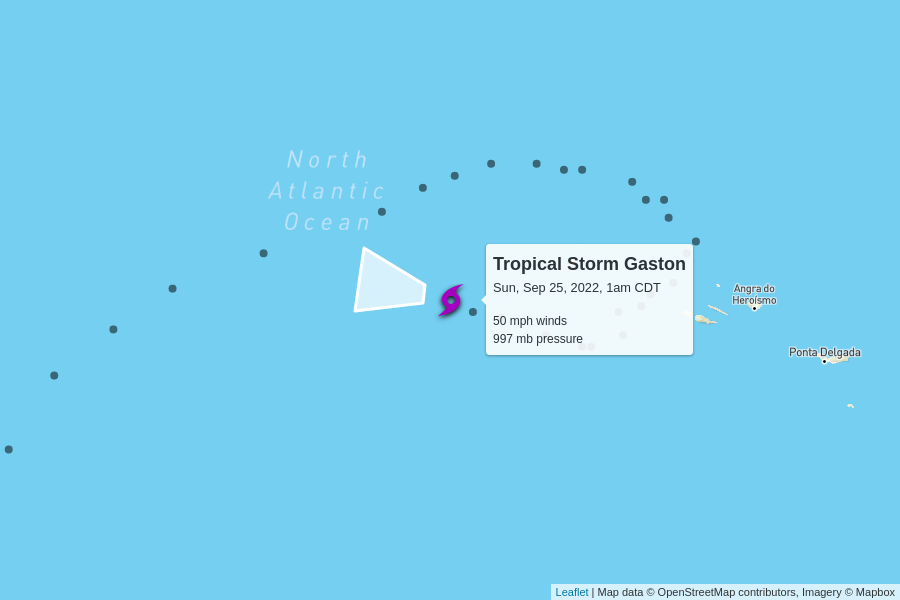
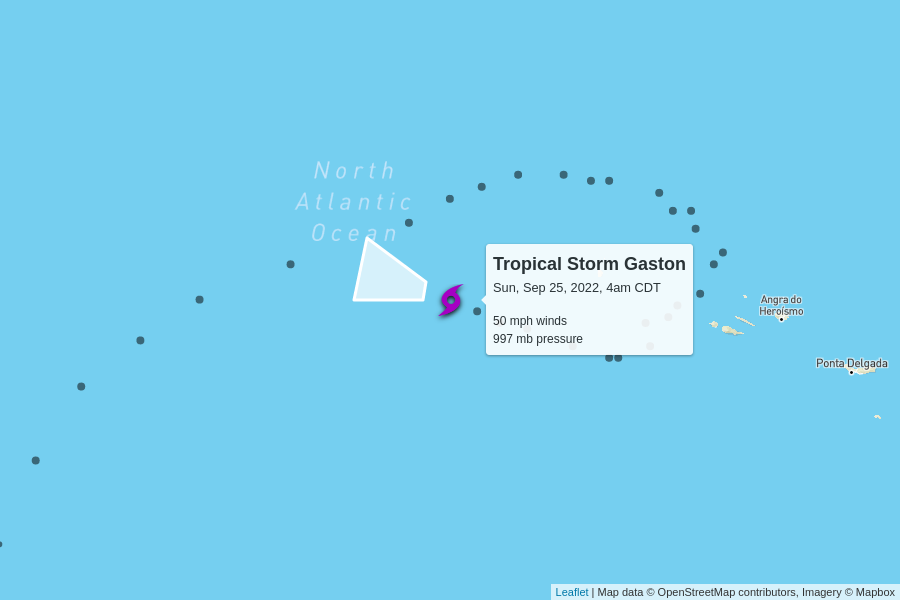
automatic update

diff --git a/docs/index.html b/docs/index.html
@@ -100,7 +100,7 @@
         <td colspan="6" class="storm category-0" >
           <h2>
             Tropical Storm Gaston
-            <p class="updated">last updated <span data-time>2022-09-25T06:00:00.000Z</span></p>
+            <p class="updated">last updated <span data-time>2022-09-25T09:00:00.000Z</span></p>
           </h2>
         </td>
       </tr>
@@ -118,9 +118,9 @@
         <td>50 mph</td>
         <td>997 mb</td>
         <td>
-          12 mph to the west
+          10 mph to the west-northwest
           <br/>
-          <span style="display: inline-block; font-size: 1.5em; transform: rotate(280deg);">↑</span>
+          <span style="display: inline-block; font-size: 1.5em; transform: rotate(285deg);">↑</span>
         </td>
         <td><a href="https://raw.githubusercontent.com/mgwalker/atlantic-hurricanes/main/data/csv/AL082022.csv">AL082022.csv</a></td>
         <td><a href="https://www.nhc.noaa.gov/archive/2022/GASTON.shtml?">NHC advisories</a></td>
@@ -144,7 +144,7 @@
         <td colspan="6" class="storm category-0" >
           <h2>
             Tropical Storm Ian
-            <p class="updated">last updated <span data-time>2022-09-25T06:00:00.000Z</span></p>
+            <p class="updated">last updated <span data-time>2022-09-25T09:00:00.000Z</span></p>
           </h2>
         </td>
       </tr>
@@ -162,9 +162,9 @@
         <td>50 mph</td>
         <td>1002 mb</td>
         <td>
-          13 mph to the west
+          12 mph to the west-northwest
           <br/>
-          <span style="display: inline-block; font-size: 1.5em; transform: rotate(280deg);">↑</span>
+          <span style="display: inline-block; font-size: 1.5em; transform: rotate(285deg);">↑</span>
         </td>
         <td><a href="https://raw.githubusercontent.com/mgwalker/atlantic-hurricanes/main/data/csv/AL092022.csv">AL092022.csv</a></td>
         <td><a href="https://www.nhc.noaa.gov/archive/2022/IAN.shtml?">NHC advisories</a></td>
@@ -185,35 +185,13 @@
       
 
       <tr>
-        <td colspan="6" class="storm category-0" >
-          <h2>
-            Tropical Depression Hermine
-            <p class="updated">last updated <span data-time>2022-09-25T03:00:00.000Z</span></p>
+        <td colspan="6" class="storm category-0" style="cursor:pointer;" onClick="toggle('AL102022')">
+          <h2>🏁 Hermine
           </h2>
         </td>
       </tr>
       
-      <tr>
-        <th class="spacer"></th>
-        <th>wind speed</th>
-        <th>central pressure</th>
-        <th>movement</th>
-        <th>data (CSV)</th>
-        <th>National Hurricane Center</th>
-      </tr>
-      <tr>
-        <td class="spacer"></td>
-        <td>35 mph</td>
-        <td>1006 mb</td>
-        <td>
-          10 mph to the north
-          <br/>
-          <span style="display: inline-block; font-size: 1.5em; transform: rotate(10deg);">↑</span>
-        </td>
-        <td><a href="https://raw.githubusercontent.com/mgwalker/atlantic-hurricanes/main/data/csv/AL102022.csv">AL102022.csv</a></td>
-        <td><a href="https://www.nhc.noaa.gov/archive/2022/HERMINE.shtml?">NHC advisories</a></td>
-      </tr>
-      <tr id="storm_AL102022" >
+      <tr id="storm_AL102022" style="display:none;">
         <td class="spacer">
         <td colspan="5">
           <figure>
